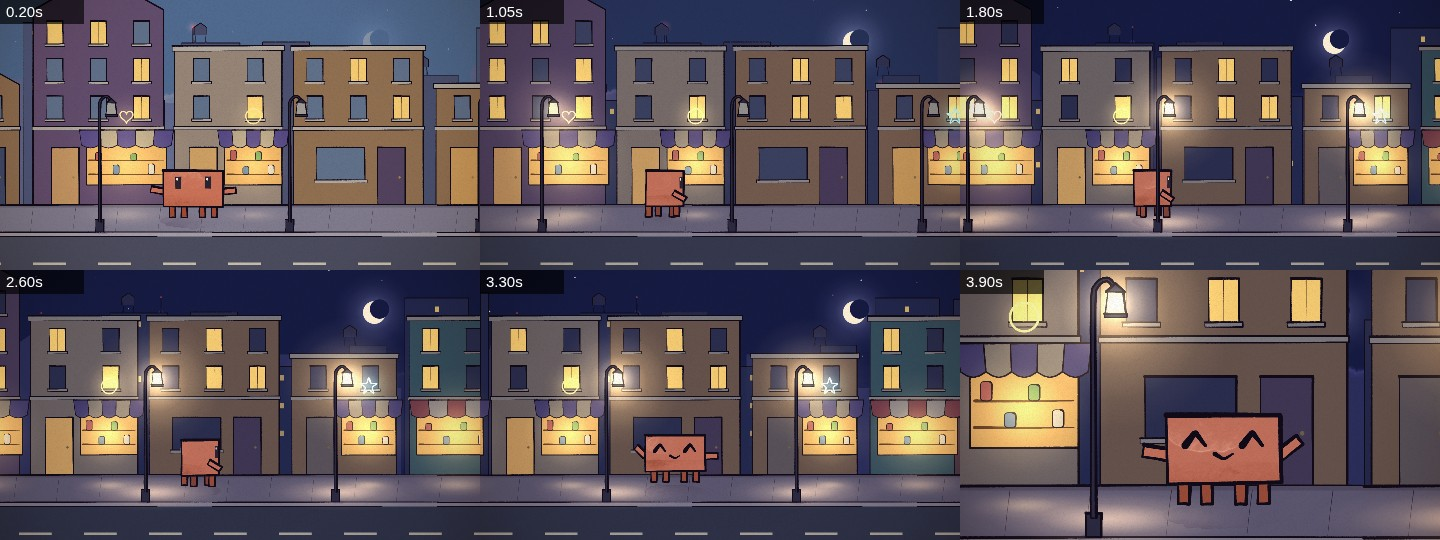
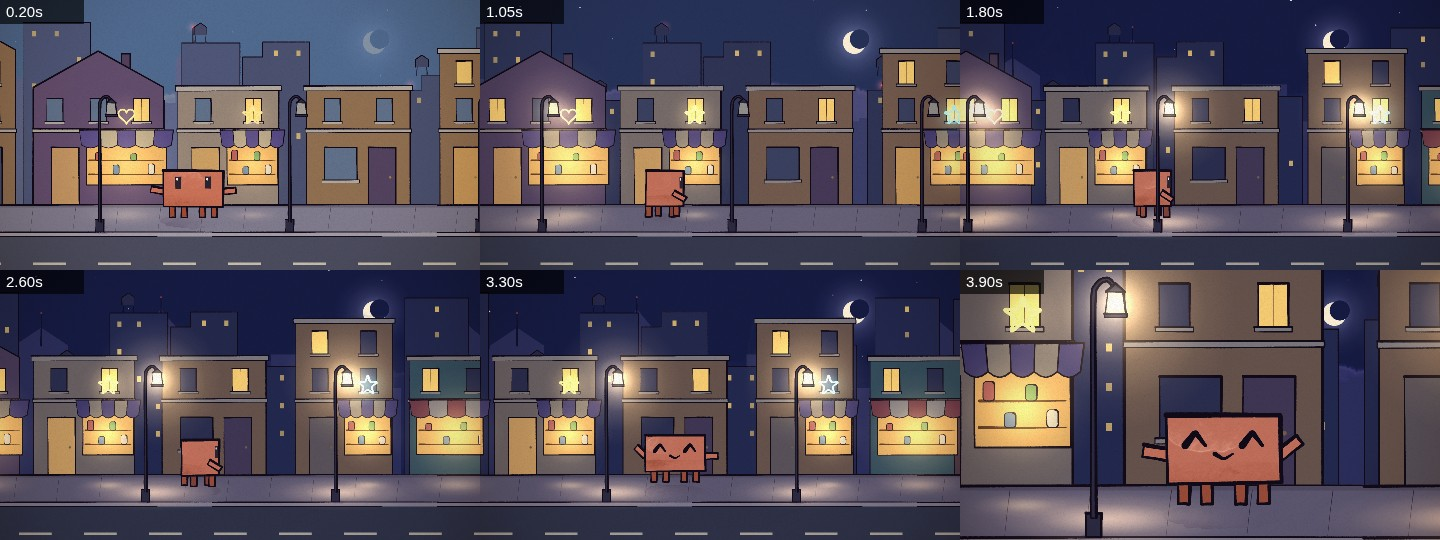
lib/rooms/street sheet; README rows: street, room lite, debug/check_loop.mjs
Claude-Session: https://claude.ai/code/session_01BbarqvnyNzPk5eG7PZK1m5

Changed region(s): [[0.0, 0.0, 1.0, 0.3852], [0.0, 0.5037, 1.0, 0.9185]]

diff --git a/lib/README.md b/lib/README.md
@@ -51,8 +51,9 @@ licence in the header. No licence → no code: list the source under "Elsewhere"
 
 | asset | what it's for | use | source |
 |---|---|---|---|
-| [`room.js`](rooms/room.js) | a room to act in: wall with wainscot, plank floor, a window onto a time-of-day sky (or any sky asset, clipped to the glass) with curtains that breathe, a door that swings open onto a hall (lit or dark), a picture frame (Clawd's portrait) that swings when knocked, a clock whose second hand ticks on the beat, a shelf of books, a floor lamp that flicks on and glows, a potted plant, a rug; one `light` value darkens it all toward night | `ROOM.room(t, { tod, light, window, door, lamp, ... })` returns anchors (`standY`, `window`, `door`...); or the pieces `ROOM.wall/floor/window/door/frame/clock/shelf/rug/lamp/plant`; helpers `ROOM.swing` (door), `ROOM.flick` (lamp), `ROOM.lightOf(tod)`, `ROOM.clip(pts, fn)` | made for the library, 2026-09-25 |
+| [`room.js`](rooms/room.js) | a room to act in: wall with wainscot, plank floor, a window onto a time-of-day sky (or any sky asset, clipped to the glass) with curtains that breathe, a door that swings open onto a hall (lit or dark), a picture frame (Clawd's portrait) that swings when knocked, a clock whose second hand ticks on the beat, a shelf of books, a floor lamp that flicks on and glows, a potted plant, a rug; one `light` value darkens it all toward night | `ROOM.room(t, { tod, light, window, door, lamp, ... })` returns anchors (`standY`, `window`, `door`...); or the pieces `ROOM.wall/floor/window/door/frame/clock/shelf/rug/lamp/plant`; helpers `ROOM.swing` (door), `ROOM.flick` (lamp), `ROOM.lightOf(tod)`, `ROOM.clip(pts, fn)`; `lite: true` = the same room with about a third fewer marks for CPU renders (demo loop `rooms/room-lite`) | made for the library, 2026-09-25 |
 | [`desk.js`](rooms/desk.js) | Clawd at the computer: a desk sized from Clawd's `u`, a monitor that types and scrolls painted code (no letters) and flashes a pass/fail verdict, or its back for reverse shots (its light spills onto Clawd), keys that dip while typing, a steaming mug, a pencil cup, a stool or office chair; exported seat/stand/keyboard/screen anchors for sitting and typing poses | `DESK.layout({ x, floorY, u })` → anchors; `DESK.set(t, { ..., typing, code: { stop, status: { t, ok } } })` then Clawd; pieces `DESK.desk/monitor/code/keyboard/mug/cup/stool` | made for the library, 2026-09-25 (demo loads `room.js` too) |
+| [`street.js`](rooms/street.js) | an endless town street at dusk or night: a far skyline with a mast blinking on the beat, mid-town blocks whose windows switch on and off (seeded), shops with striped awnings, lit windows and neon signs pulsing on the beat, houses, pavement and road, streetlamps that come on one after another with a flicker (one is a bit broken); far layers slide by parallax (same depth convention as `sky/landscape.js`) | `STREET.draw(t, { night, lampsOn, seed, sky })`, characters at `STREET.groundY()`, then `STREET.front(t, o)` (lamp posts in front of them); `STREET.lamps(x0, x1)` for lamp positions; `lite: true` | made for the library, 2026-09-25 |
 
 ### weather/ — weather and particles
 
@@ -97,6 +98,7 @@ What was checked and why the rest wasn't imported: [imported/SURVEY.md](imported
 | file | what it's for | use | source |
 |---|---|---|---|
 | [`paint_count.js`](debug/paint_count.js) | logs each rendered frame's paint() + inkLine() count (the kit's cost unit) as a page line (ignore the extra t=0.00 line from page setup) | add `lib/debug/paint_count.js` last in `--use` | made for the library, 2026-09-25, painter-weather |
+| [`check_loop.mjs`](debug/check_loop.mjs) | checks a loop or the film in node in about a second, no render: invalid colours (the `'#aN'` that kills a page), NaN points, exceptions with a stack into your file, push/pop left open, `camBegin` without `camEnd`, nested clips, `Math.random()`, frames that differ when drawn twice; prints each frame's paint / inkLine / fill / glow / clip counts | `node lib/debug/check_loop.mjs --use=<files> --loop=<name> --sheet=<times>` (render.mjs's flags; exit 1 on a problem) | made for the library, 2026-09-25, painter-rooms |
 
 ### Elsewhere (link only: no licence, or not code)
 
